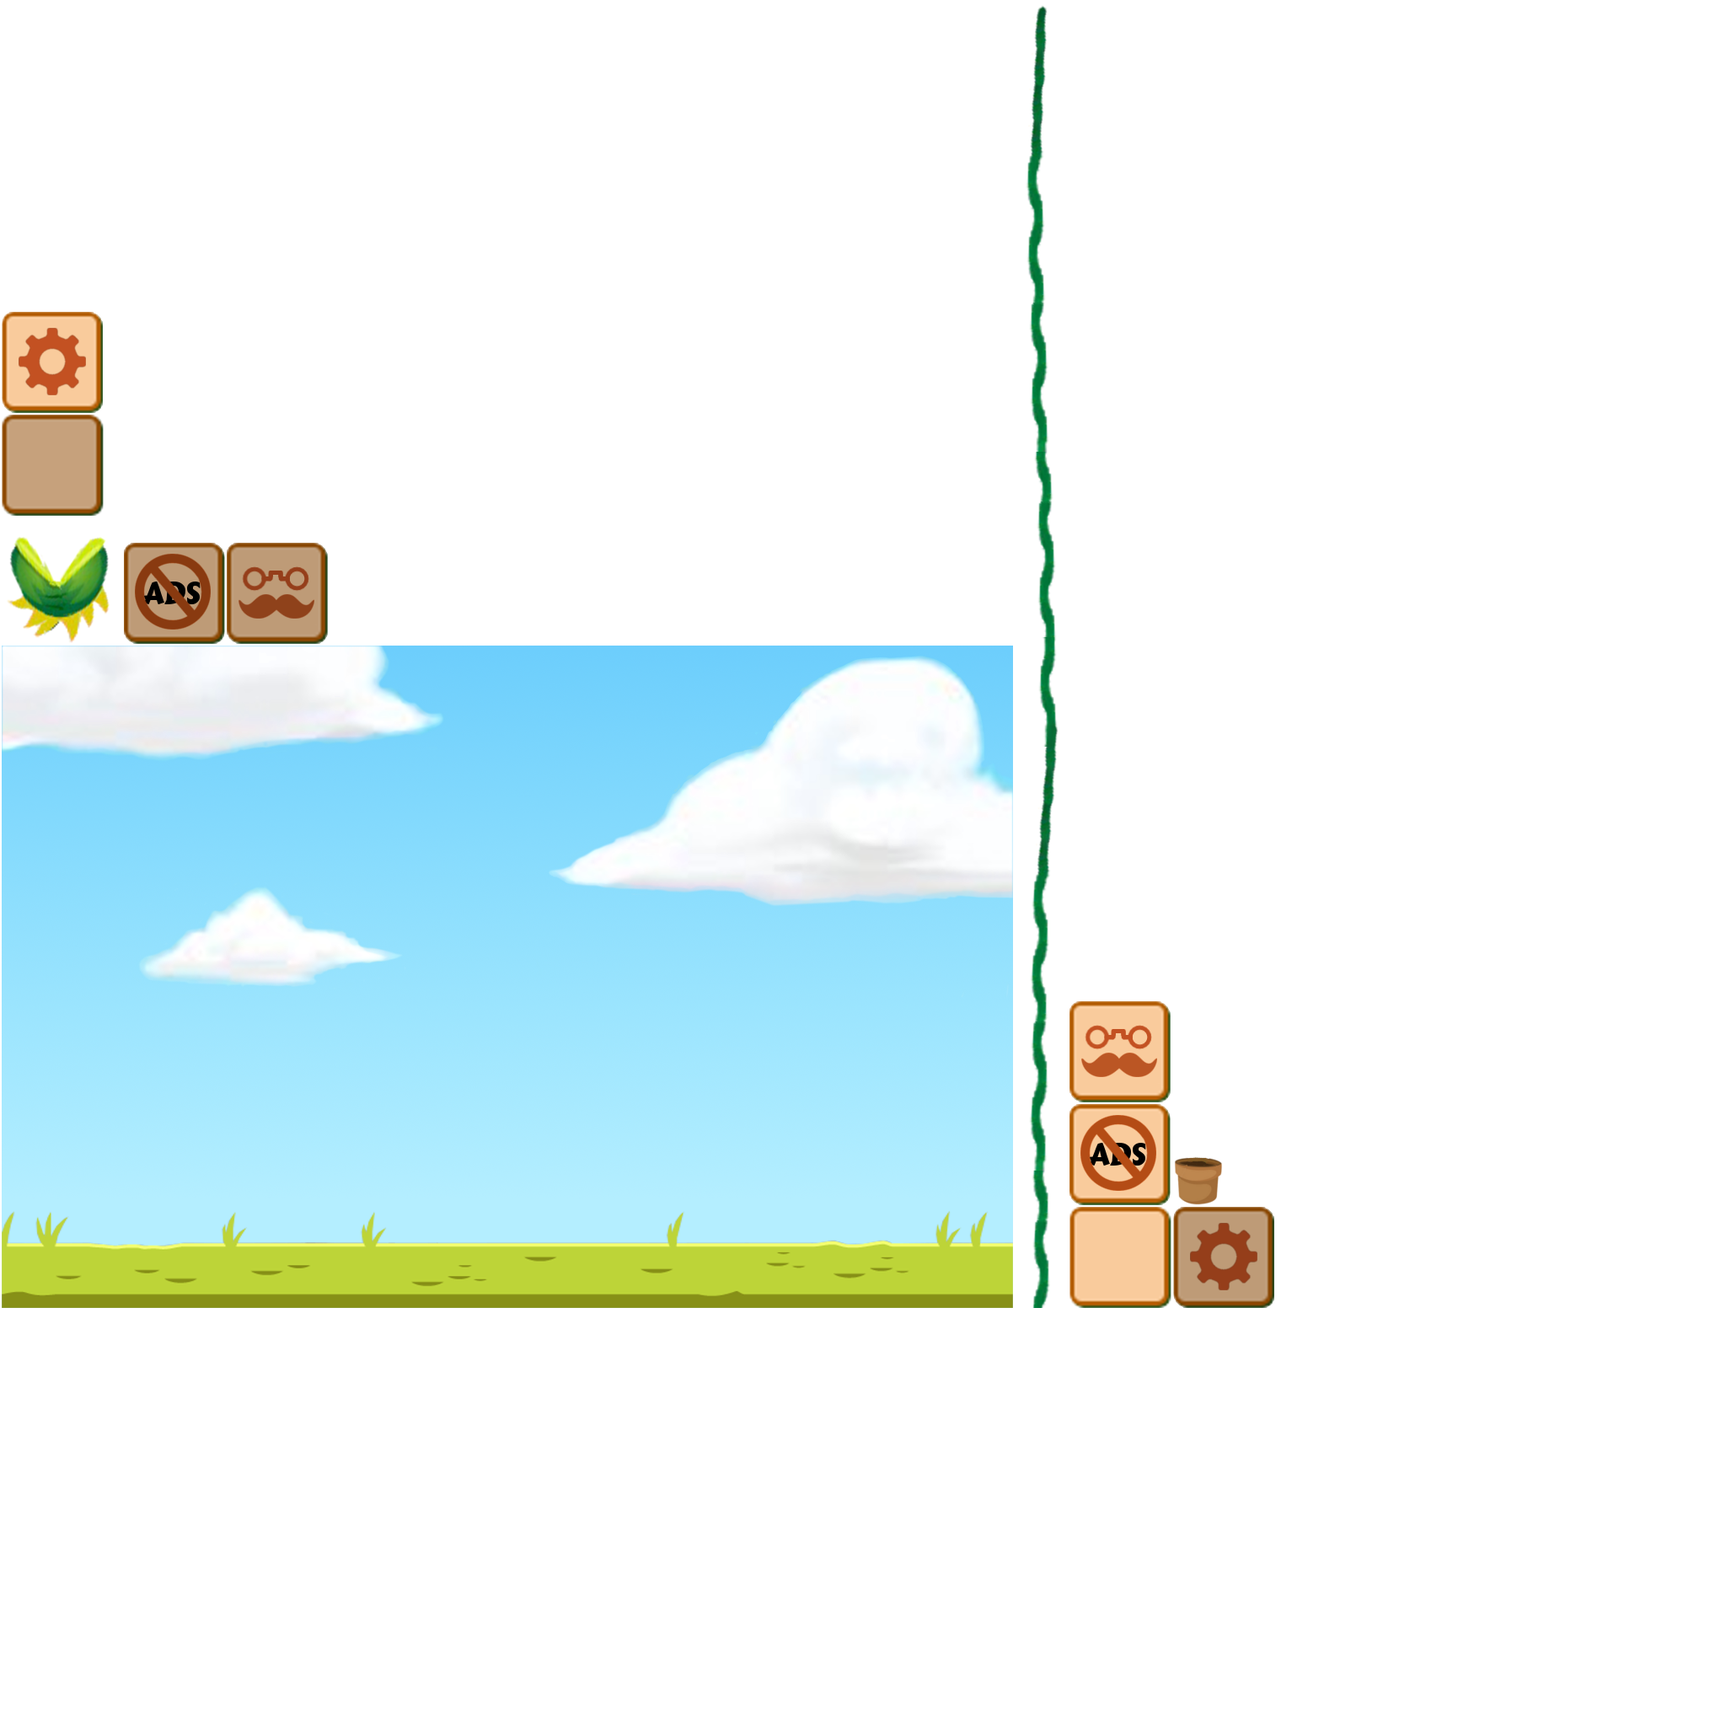
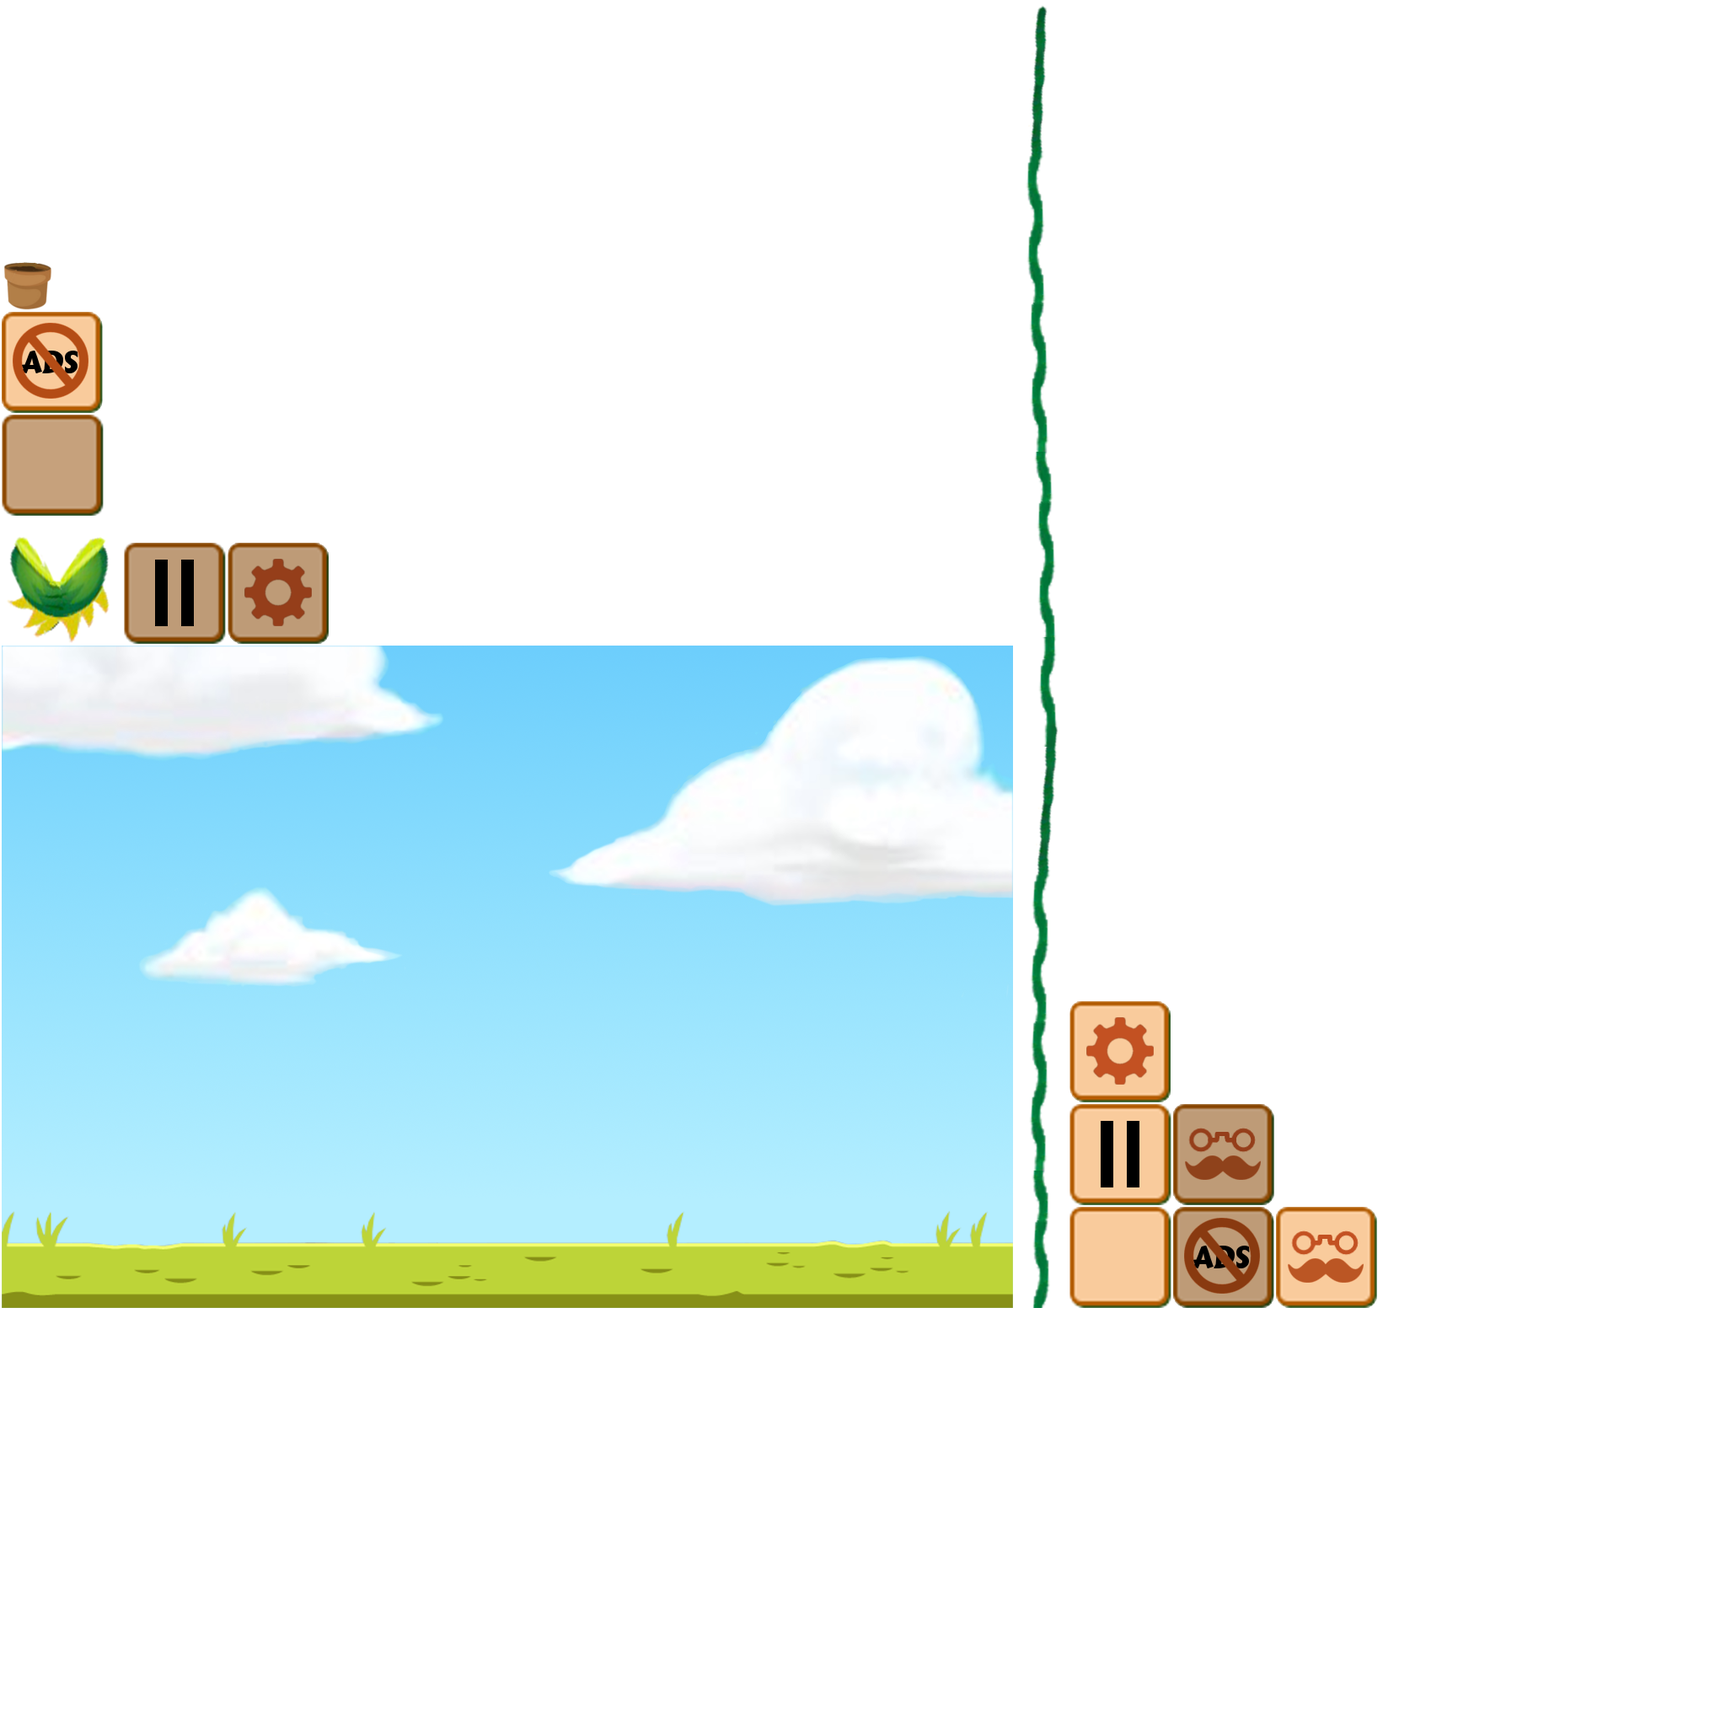
* Pause button added to the Main Scene, now pauses everything if pressed

Changed region(s): [[0.625, 0.5938, 0.8125, 0.7812], [0.0625, 0.3125, 0.1875, 0.375], [0.0, 0.125, 0.0625, 0.25]]

diff --git a/core/src/game/stages/GameScreenScript.java b/core/src/game/stages/GameScreenScript.java
@@ -1,6 +1,8 @@
 package game.stages;
 
 import com.badlogic.gdx.Gdx;
+import com.badlogic.gdx.scenes.scene2d.InputEvent;
+import com.badlogic.gdx.scenes.scene2d.utils.ClickListener;
 import com.uwsoft.editor.renderer.actor.CompositeItem;
 import com.uwsoft.editor.renderer.script.IScript;
 import game.actors.*;
@@ -39,14 +41,38 @@ public class GameScreenScript implements IScript {
     public int dandelionSpawnCounter;
     public int cacoonSpawnCounter;
 
+    private boolean pausePressed = false;
+
     public GameScreenScript(GameStage stage) {
         this.stage = stage;
     }
 
     @Override
     public void init(CompositeItem item) {
+        gameItem = item;
         dandelionSpawnCounter = random.nextInt(GlobalConstants.DANDELION_SPAWN_CHANCE_MAX - GlobalConstants.DANDELION_SPAWN_CHANCE_MIN) + GlobalConstants.DANDELION_SPAWN_CHANCE_MIN;
         cacoonSpawnCounter = random.nextInt(GlobalConstants.COCOON_SPAWN_MAX - GlobalConstants.COCOON_SPAWN_MIN) + GlobalConstants.COCOON_SPAWN_MIN;
+        final CompositeItem btnPause = gameItem.getCompositeById("btn_pause");
+
+        btnPause.addListener(new ClickListener(){
+            // Need to keep touch down in order for touch up to work normal (libGDX awkwardness)
+            public boolean touchDown (InputEvent event, float x, float y, int
+                    pointer, int button) {
+                btnPause.setLayerVisibilty("normal", false);
+                btnPause.setLayerVisibilty("pressed", true);
+
+                GlobalConstants.GAME_PAUSED = true;
+                pausePressed = true;
+
+                return true;
+            }
+            public void touchUp (InputEvent event, float x, float y, int pointer,
+                                 int button) {
+                btnPause.setLayerVisibilty("normal", true);
+                btnPause.setLayerVisibilty("pressed", false);
+                pausePressed = false;
+            }
+        });
     }
 
     @Override
@@ -56,36 +82,45 @@ public class GameScreenScript implements IScript {
 
     @Override
     public void act(float delta) {
-        timer++;
-        dandelionSpawnCounter--;
-        cacoonSpawnCounter--;
+        for(Bug bug : bugs){
+            if (bug.getController().isOutOfBounds() && flower.getCurHp()<=0){
+                GlobalConstants.GAME_OVER = true;
+            }
+        }
+        if(GlobalConstants.GAME_PAUSED && !pausePressed && Gdx.input.justTouched()){
+            GlobalConstants.GAME_PAUSED = false;
+        }
+        if(!GlobalConstants.GAME_PAUSED) {
+            timer++;
+            dandelionSpawnCounter--;
+            cacoonSpawnCounter--;
 
-        if (timer >= spawnInterval) {
-            bugs.add(spawner.spawn(bugGenerator.getBugSafe(stage.getInstance(), stage.sceneLoader), stage.getInstance()));
-            timer = 0;
-        }
-        if (Gdx.input.isTouched() && isGameOver()) {
-            stage.getActors().removeRange(2, stage.getActors().size - 1);
-            reloadBugs();
-            isAngeredBeesMode = false;
-        }
-        if (isAngeredBeesMode) {
-            isAngeredBeesMode = angeredBeesTimer-- >= 0;
-            spawnInterval = isAngeredBeesMode ? GlobalConstants.BEE_SPAWN_INTERVAL_ANGERED : GlobalConstants.BEE_SPAWN_INTERVAL_REGULAR;
-        }
+            if (timer >= spawnInterval) {
+                bugs.add(spawner.spawn(bugGenerator.getBugSafe(stage.getInstance(), stage.sceneLoader), stage.getInstance()));
+                timer = 0;
+            }
+            if (Gdx.input.isTouched() && isGameOver()) {
+                stage.getActors().removeRange(2, stage.getActors().size - 1);
+                reloadBugs();
+                isAngeredBeesMode = false;
+            }
+            if (isAngeredBeesMode) {
+                isAngeredBeesMode = angeredBeesTimer-- >= 0;
+                spawnInterval = isAngeredBeesMode ? GlobalConstants.BEE_SPAWN_INTERVAL_ANGERED : GlobalConstants.BEE_SPAWN_INTERVAL_REGULAR;
+            }
 
-        if (dandelionSpawnCounter <= 0 && umbrellaPowerUp == null){
-            dandelionSpawnCounter = random.nextInt(GlobalConstants.DANDELION_SPAWN_CHANCE_MAX-GlobalConstants.DANDELION_SPAWN_CHANCE_MIN)+GlobalConstants.DANDELION_SPAWN_CHANCE_MIN;
-            dandelionPowerup = new DandelionPowerUp(stage.sceneLoader, stage);
-        }
+            if (dandelionSpawnCounter <= 0 && umbrellaPowerUp == null) {
+                dandelionSpawnCounter = random.nextInt(GlobalConstants.DANDELION_SPAWN_CHANCE_MAX - GlobalConstants.DANDELION_SPAWN_CHANCE_MIN) + GlobalConstants.DANDELION_SPAWN_CHANCE_MIN;
+                dandelionPowerup = new DandelionPowerUp(stage.sceneLoader, stage);
+            }
 
 //        if (cacoonSpawnCounter <= 0 && butterflyPowerUp == null) {
 //            cacoonSpawnCounter = random.nextInt(GlobalConstants.COCOON_SPAWN_MAX - GlobalConstants.COCOON_SPAWN_MIN) + GlobalConstants.COCOON_SPAWN_MIN;
 //            cocoonPowerUp = new CocoonPowerUp(sceneLoader, this);
 //        }
 
-        CollisionChecker.checkCollisions(stage);
-
+            CollisionChecker.checkCollisions(stage);
+        }
     }
 
     private void reloadBugs() {

diff --git a/core/src/game/actors/controllers/powerups/DandelionController.java b/core/src/game/actors/controllers/powerups/DandelionController.java
@@ -38,28 +38,30 @@ public class DandelionController implements IScript {
 
     @Override
     public void act(float delta) {
-        counter++;
-        if (state == State.GROWING) {
-            if (counter >= GlobalConstants.DANDELION_GROWING_DURATION){
-                spriterActor.setAnimation(1);
-                state = State.IDLE;
-                counter = 0;
+        if(!GlobalConstants.GAME_OVER && !GlobalConstants.GAME_PAUSED) {
+            counter++;
+            if (state == State.GROWING) {
+                if (counter >= GlobalConstants.DANDELION_GROWING_DURATION) {
+                    spriterActor.setAnimation(1);
+                    state = State.IDLE;
+                    counter = 0;
+                }
             }
-        }
-        if (state == State.IDLE) {
-            if (counter >= GlobalConstants.DANDELION_IDLE_DURATION) {
-                spriterActor.setAnimation(2);
-                state = State.DYING;
-                counter = 0;
+            if (state == State.IDLE) {
+                if (counter >= GlobalConstants.DANDELION_IDLE_DURATION) {
+                    spriterActor.setAnimation(2);
+                    state = State.DYING;
+                    counter = 0;
+                }
             }
-        }
-        if (state == State.DYING) {
-            if (counter == GlobalConstants.DANDELION_UMBRELLA_DUYING_POINT){
-                spawnUmbrella();
-            }else if(counter >= GlobalConstants.DANDELION_DUYING_DURATION) {
-                state = State.DEAD;
-                ((GameStage)stage).removeActor(item);
-                ((GameStage)stage).game.dandelionPowerup = null;
+            if (state == State.DYING) {
+                if (counter == GlobalConstants.DANDELION_UMBRELLA_DUYING_POINT) {
+                    spawnUmbrella();
+                } else if (counter >= GlobalConstants.DANDELION_DUYING_DURATION) {
+                    state = State.DEAD;
+                    ((GameStage) stage).removeActor(item);
+                    ((GameStage) stage).game.dandelionPowerup = null;
+                }
             }
         }
     }

diff --git a/core/src/game/actors/controllers/powerups/CocoonController.java b/core/src/game/actors/controllers/powerups/CocoonController.java
@@ -42,31 +42,33 @@ public class CocoonController implements IScript {
 
     @Override
     public void act(float delta) {
-        counter++;
-        if (state == State.SPAWNING) {
-            if (counter >= GlobalConstants.COCOON_SPAWNING_DURATION) {
-                spriterActor.setAnimation(1);
-                state = State.IDLE;
-                counter = 0;
-            }
-        }
-
-        if (state == State.HIT) {
-            if (counter >= GlobalConstants.COCOON_HIT_DURATION) {
-                spriterActor.setAnimation(1);
-                if (health <= 0) {
-                    state = State.DEAD;
-                    spawnButterfly();
-                    counter = 0;
-                } else {
+        if(!GlobalConstants.GAME_OVER && !GlobalConstants.GAME_PAUSED) {
+            counter++;
+            if (state == State.SPAWNING) {
+                if (counter >= GlobalConstants.COCOON_SPAWNING_DURATION) {
+                    spriterActor.setAnimation(1);
                     state = State.IDLE;
                     counter = 0;
                 }
             }
-        }
 
-        if (state == State.DEAD) {
-            ((GameStage)stage).removeActor(item);
+            if (state == State.HIT) {
+                if (counter >= GlobalConstants.COCOON_HIT_DURATION) {
+                    spriterActor.setAnimation(1);
+                    if (health <= 0) {
+                        state = State.DEAD;
+                        spawnButterfly();
+                        counter = 0;
+                    } else {
+                        state = State.IDLE;
+                        counter = 0;
+                    }
+                }
+            }
+
+            if (state == State.DEAD) {
+                ((GameStage) stage).removeActor(item);
+            }
         }
     }
 

diff --git a/core/src/game/actors/controllers/powerups/ButterflyController.java b/core/src/game/actors/controllers/powerups/ButterflyController.java
@@ -4,6 +4,8 @@ import com.badlogic.gdx.Gdx;
 import com.badlogic.gdx.math.Rectangle;
 import com.uwsoft.editor.renderer.actor.CompositeItem;
 import com.uwsoft.editor.renderer.script.IScript;
+import game.stages.GameStage;
+import game.utils.GlobalConstants;
 
 import java.util.Random;
 
@@ -51,9 +53,11 @@ public class ButterflyController implements IScript{
 
     @Override
     public void act(float delta) {
-        velocityX += gravity * delta;
-        item.setX(item.getX() + velocityX * delta);
-        item.setY(item.getY() + velocityY*delta);
+        if(!GlobalConstants.GAME_OVER && !GlobalConstants.GAME_PAUSED) {
+            velocityX += gravity * delta;
+            item.setX(item.getX() + velocityX * delta);
+            item.setY(item.getY() + velocityY * delta);
+        }
     }
 
     public void updateRect() {

diff --git a/core/src/game/actors/controllers/powerups/UmbrellaController.java b/core/src/game/actors/controllers/powerups/UmbrellaController.java
@@ -5,6 +5,7 @@ import com.badlogic.gdx.math.Rectangle;
 import com.uwsoft.editor.renderer.actor.CompositeItem;
 import com.uwsoft.editor.renderer.script.IScript;
 import game.stages.GameStage;
+import game.utils.GlobalConstants;
 
 import java.util.Random;
 
@@ -52,9 +53,11 @@ public class UmbrellaController implements IScript{
 
     @Override
     public void act(float delta) {
-        velocityX += gravity * delta;
-        item.setX(item.getX() + velocityX * delta);
-        item.setY(item.getY() + velocityY*delta);
+        if(!GlobalConstants.GAME_OVER && !GlobalConstants.GAME_PAUSED) {
+            velocityX += gravity * delta;
+            item.setX(item.getX() + velocityX * delta);
+            item.setY(item.getY() + velocityY * delta);
+        }
     }
 
     public void updateRect() {

diff --git a/core/src/game/actors/controllers/SimpleBugController.java b/core/src/game/actors/controllers/SimpleBugController.java
@@ -5,6 +5,7 @@ import com.uwsoft.editor.renderer.Overlap2DStage;
 import com.uwsoft.editor.renderer.actor.CompositeItem;
 import com.uwsoft.editor.renderer.script.IScript;
 import game.stages.GameStage;
+import game.utils.GlobalConstants;
 
 import java.util.Random;
 
@@ -37,7 +38,7 @@ public class SimpleBugController extends BugController implements IScript  {
         float moveCoefficient = (-(float) Math.sin(item.getX() / xCoefficient) * yCoefficient);
         Random random = new Random();
 
-        if(!((GameStage)stage).game.isGameOver()) {
+        if(!GlobalConstants.GAME_OVER && !GlobalConstants.GAME_PAUSED) {
             updateRect();
             item.setY(startYPosition + moveCoefficient);
 //            System.out.println("sin are fun: " + moveCoefficient);

diff --git a/core/src/game/actors/controllers/SmellyBugController.java b/core/src/game/actors/controllers/SmellyBugController.java
@@ -5,6 +5,7 @@ import com.uwsoft.editor.renderer.Overlap2DStage;
 import com.uwsoft.editor.renderer.actor.CompositeItem;
 import com.uwsoft.editor.renderer.script.IScript;
 import game.stages.GameStage;
+import game.utils.GlobalConstants;
 
 /**
  * Created by NastyaJoe on n/n/2015.
@@ -33,7 +34,7 @@ public class SmellyBugController extends BugController implements IScript  {
 
     @Override
     public void act(float delta) {
-        if(!((GameStage)stage).game.isGameOver()) {
+        if(!GlobalConstants.GAME_OVER && !GlobalConstants.GAME_PAUSED) {
             updateRect();
             item.setY(startYPosition + (-(float) Math.cos(item.getX() / 20) * 75));
             item.setX(item.getX() + velocity);

diff --git a/core/src/game/actors/controllers/DrunkBugController.java b/core/src/game/actors/controllers/DrunkBugController.java
@@ -5,6 +5,7 @@ import com.uwsoft.editor.renderer.Overlap2DStage;
 import com.uwsoft.editor.renderer.actor.CompositeItem;
 import com.uwsoft.editor.renderer.script.IScript;
 import game.stages.GameStage;
+import game.utils.GlobalConstants;
 
 /**
  * Created by NastyaJoe on n/n/2015.
@@ -33,7 +34,7 @@ public class DrunkBugController extends BugController implements IScript  {
 
     @Override
     public void act(float delta) {
-        if(!((GameStage)stage).game.isGameOver()) {
+        if(!GlobalConstants.GAME_OVER && !GlobalConstants.GAME_PAUSED) {
             updateRect();
             item.setY(startYPosition + (-(float) Math.cos(item.getX() / 20) * 75));
             item.setX(item.getX() + velocity);

diff --git a/core/src/game/actors/controllers/BeeBugController.java b/core/src/game/actors/controllers/BeeBugController.java
@@ -5,6 +5,7 @@ import com.uwsoft.editor.renderer.Overlap2DStage;
 import com.uwsoft.editor.renderer.actor.CompositeItem;
 import com.uwsoft.editor.renderer.script.IScript;
 import game.stages.GameStage;
+import game.utils.GlobalConstants;
 
 /**
  * Created by NastyaJoe on n/n/2015.
@@ -32,7 +33,7 @@ public class BeeBugController extends BugController implements IScript  {
 
     @Override
     public void act(float delta) {
-        if(!((GameStage)stage).game.isGameOver()) {
+        if(!GlobalConstants.GAME_OVER && !GlobalConstants.GAME_PAUSED) {
             updateRect();
             item.setY(startYPosition + (-(float) Math.cos(item.getX() / 20) * 75));
             item.setX(item.getX() + velocity);

diff --git a/core/src/game/actors/controllers/ChargerBugController.java b/core/src/game/actors/controllers/ChargerBugController.java
@@ -5,6 +5,7 @@ import com.uwsoft.editor.renderer.Overlap2DStage;
 import com.uwsoft.editor.renderer.actor.CompositeItem;
 import com.uwsoft.editor.renderer.script.IScript;
 import game.stages.GameStage;
+import game.utils.GlobalConstants;
 
 /**
  * Created by NastyaJoe on n/n/2015.
@@ -43,7 +44,7 @@ public class ChargerBugController extends BugController implements IScript {
 
     @Override
     public void act(float delta) {
-        if (!((GameStage) stage).game.isGameOver()) {
+        if (!((GameStage) stage).game.isGameOver() && !GlobalConstants.GAME_PAUSED) {
             updateRect();
             counter--;
 

diff --git a/core/src/game/actors/controllers/FlowerController.java b/core/src/game/actors/controllers/FlowerController.java
@@ -60,7 +60,7 @@ public class FlowerController implements IScript {
 
     @Override
     public void act(float delta) {
-        if(!((GameStage)stage).game.isGameOver()) {
+        if(!GlobalConstants.GAME_OVER && !GlobalConstants.GAME_PAUSED) {
             updateRect();
 //            checkForCollisions();
 

diff --git a/core/src/game/utils/GlobalConstants.java b/core/src/game/utils/GlobalConstants.java
@@ -26,6 +26,9 @@ public abstract class GlobalConstants {
 
     public static final int DEFAULT_MAX_HP = 2;
 
+    public static boolean GAME_OVER = false;
+    public static boolean GAME_PAUSED = false;
+
     public static int POINT_TRAVEL = Gdx.graphics.getHeight()-685;
 
 }
